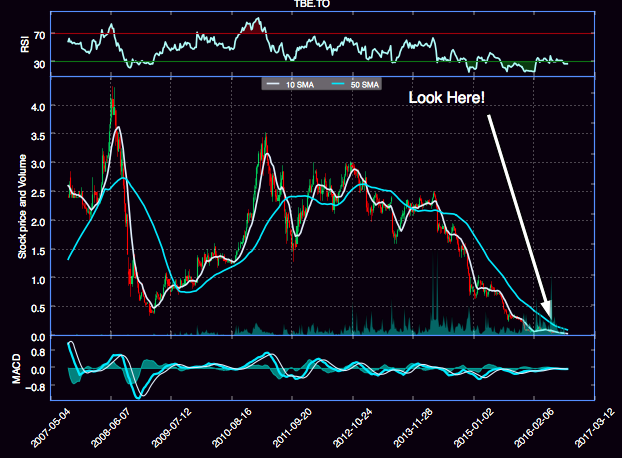
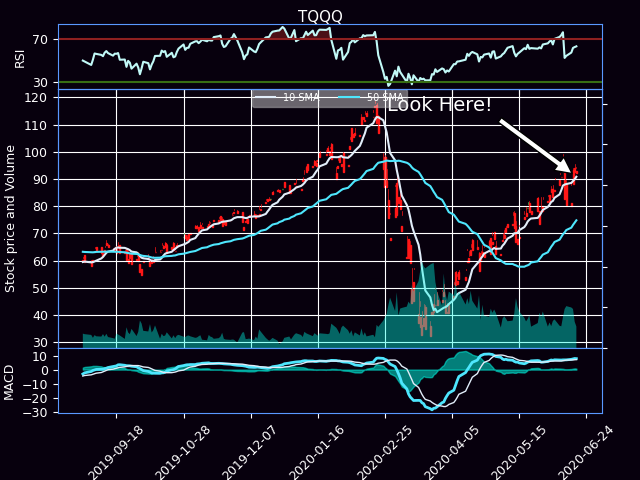
converted python 2 to python 3

Changed region(s): [[0.0, 0.0, 1.0, 1.0], [0.0305, 0.917, 0.0916, 0.9782]]

diff --git a/Stock Screener/rsi.py b/Stock Screener/rsi.py
@@ -1,30 +1,32 @@
-import urllib2
+from urllib.request import urlopen
 import time
 import datetime
 import numpy as np
 import matplotlib.pyplot as plt
 import matplotlib.ticker as mticker
 import matplotlib.dates as mdates
-from matplotlib.finance import candlestick
+from mplfinance.original_flavor import candlestick_ohlc
+import pandas_datareader.data as web
 import matplotlib
 import pylab
 matplotlib.rcParams.update({'font.size': 9})
 
-stocks = ['SU', 'ECA', 'CGP', 'ENB', 'COS', 'CNQ', 'TRP', 'CVE', 'BTE', 'MEG', 'CCO', 'PRE', 'VSN', 'WCP', 'RY', 'TD', 'BMO', 'BNS', 'CM', 'NA', 'SLF', 'EFN', 'MFC', 'CWB', 'GWO', 'TCK.B', 'G', 'ABX', 'DGC', 'AEM', 'POT', 'SLW', 'FM', 'BCE', 'T', 'RCI', 'GIB.A', 'BB', 'ATD.B', 'MG', 'AC', 'CNR', 'TA', 'VRX', 'XIU', 'XEG', 'ZEB', 'XFN', 'SXO', 'XGD', 'CVE', 'CGC', 'OGI', 'TBE.TO', 'AEZS', 'SIE.VN', 'LIX.VN', 'MNKD', 'MT', 'APH', 'OGI']
+stocks = ['SU', 'TSLA', 'GOOG', 'TQQQ']
+
 
 def rsiFunc(prices, n=14):
     deltas = np.diff(prices)
     seed = deltas[:n+1]
-    up = seed[seed>=0].sum()/n
-    down = -seed[seed<0].sum()/n
+    up = seed[seed >= 0].sum()/n
+    down = -seed[seed < 0].sum()/n
     rs = up/down
     rsi = np.zeros_like(prices)
     rsi[:n] = 100. - 100./(1.+rs)
 
     for i in range(n, len(prices)):
-        delta = deltas[i-1] # cause the diff is 1 shorter
+        delta = deltas[i-1]  # cause the diff is 1 shorter
 
-        if delta>0:
+        if delta > 0:
             upval = delta
             downval = 0.
         else:
@@ -39,15 +41,17 @@ def rsiFunc(prices, n=14):
 
     return rsi
 
-def movingaverage(values,window):
+
+def movingaverage(values, window):
     weigths = np.repeat(1.0, window)/window
     smas = np.convolve(values, weigths, 'valid')
-    return smas # as a numpy array
+    return smas  # as a numpy array
+
 
 def ExpMovingAverage(values, window):
     weights = np.exp(np.linspace(-1., 0., window))
     weights /= weights.sum()
-    a =  np.convolve(values, weights, mode='full')[:len(values)]
+    a = np.convolve(values, weights, mode='full')[:len(values)]
     a[:window] = a[window]
     return a
 
@@ -61,41 +65,45 @@ def computeMACD(x, slow=26, fast=12):
     emafast = ExpMovingAverage(x, fast)
     return emaslow, emafast, emafast - emaslow
 
-def graphData(stock,MA1,MA2):
+
+def graphData(stock, MA1, MA2):
     '''
         Use this to dynamically pull a stock:
     '''
     try:
-        print 'Currently Pulling',stock
-        print str(datetime.datetime.fromtimestamp(int(time.time())).strftime('%Y-%m-%d %H:%M:%S'))
-        urlToVisit = 'http://chartapi.finance.yahoo.com/instrument/1.0/'+stock+'/chartdata;type=quote;range=10y/csv'
-        stockFile =[]
+        start = datetime.datetime.now()-datetime.timedelta(days=365)
+        end = datetime.datetime.now()
+        print('Currently Pulling', stock)
+        print(str(datetime.datetime.fromtimestamp(
+            int(time.time())).strftime('%Y-%m-%d %H:%M:%S')))
+
+        data = web.DataReader(stock, 'yahoo', start, end)
+        stockFile = []
         try:
-            sourceCode = urllib2.urlopen(urlToVisit).read()
-            splitSource = sourceCode.split('\n')
-            for eachLine in splitSource:
-                splitLine = eachLine.split(',')
-                if len(splitLine)==6:
-                    if 'values' not in eachLine:
-                        stockFile.append(eachLine)
-        except Exception, e:
-            print str(e), 'failed to organize pulled data.'
-    except Exception,e:
-        print str(e), 'failed to pull pricing data'
+
+            stockFile.append(data)
+        except Exception as e:
+            print(str(e), 'failed to organize pulled data.')
+    except Exception as e:
+        print(str(e), 'failed to pull pricing data')
     try:
-        date, closep, highp, lowp, openp, volume = np.loadtxt(stockFile,delimiter=',', unpack=True,
-                                                              converters={ 0: mdates.strpdate2num('%Y%m%d')})
+        date = [mdates.date2num(d) for d in data.index]
+        closep = data['Close']
+        highp = data['High']
+        lowp = data['Low']
+        openp = data['Open']
+        volume = data['Volume']
 
         rsi = rsiFunc(closep)
 
-        if rsi[-1] < 30:
+        if rsi[-1] > 30:
             x = 0
             y = len(date)
             newAr = []
             while x < y:
-                appendLine = date[x],openp[x],closep[x],highp[x],lowp[x],volume[x]
+                appendLine = date[x], openp[x], closep[x], highp[x], lowp[x], volume[x]
                 newAr.append(appendLine)
-                x+=1
+                x += 1
 
             Av1 = movingaverage(closep, MA1)
             Av2 = movingaverage(closep, MA2)
@@ -104,16 +112,20 @@ def graphData(stock,MA1,MA2):
 
             fig = plt.figure(facecolor='#07000d')
 
-            ax1 = plt.subplot2grid((6,4), (1,0), rowspan=4, colspan=4, axisbg='#07000d')
-            candlestick(ax1, newAr[-SP:], width=.6, colorup='#53c156', colordown='#ff1717')
+            ax1 = plt.subplot2grid(
+                (6, 4), (1, 0), rowspan=4, colspan=4, facecolor='#07000d')
+            candlestick_ohlc(ax1, newAr[-SP:], width=.6,
+                             colorup='#53c156', colordown='#ff1717')
 
             Label1 = str(MA1)+' SMA'
             Label2 = str(MA2)+' SMA'
 
-            ax1.plot(date[-SP:],Av1[-SP:],'#e1edf9',label=Label1, linewidth=1.5)
-            ax1.plot(date[-SP:],Av2[-SP:],'#4ee6fd',label=Label2, linewidth=1.5)
+            ax1.plot(date[-SP:], Av1[-SP:], '#e1edf9',
+                     label=Label1, linewidth=1.5)
+            ax1.plot(date[-SP:], Av2[-SP:], '#4ee6fd',
+                     label=Label2, linewidth=1.5)
 
-            ax1.grid(True, color='w')
+            ax1.grid(False, color='w')
             ax1.xaxis.set_major_locator(mticker.MaxNLocator(10))
             ax1.xaxis.set_major_formatter(mdates.DateFormatter('%Y-%m-%d'))
             ax1.yaxis.label.set_color("w")
@@ -126,16 +138,17 @@ def graphData(stock,MA1,MA2):
             ax1.tick_params(axis='x', colors='w')
             plt.ylabel('Stock price and Volume')
 
-            maLeg = plt.legend(loc=9, ncol=2, prop={'size':7},
-                       fancybox=True, borderaxespad=0.)
+            maLeg = plt.legend(loc=9, ncol=2, prop={'size': 7},
+                               fancybox=True, borderaxespad=0.)
             maLeg.get_frame().set_alpha(0.4)
             textEd = pylab.gca().get_legend().get_texts()
-            pylab.setp(textEd[0:5], color = 'w')
+            pylab.setp(textEd[0:5], color='w')
 
             volumeMin = 0
 
-            ax0 = plt.subplot2grid((6,4), (0,0), sharex=ax1, rowspan=1, colspan=4, axisbg='#07000d')
-            #rsi = rsiFunc(closep)
+            ax0 = plt.subplot2grid(
+                (6, 4), (0, 0), sharex=ax1, rowspan=1, colspan=4, facecolor='#07000d')
+            # rsi = rsiFunc(closep)
             rsiCol = '#c1f9f7'
             posCol = '#386d13'
             negCol = '#8f2020'
@@ -143,9 +156,11 @@ def graphData(stock,MA1,MA2):
             ax0.plot(date[-SP:], rsi[-SP:], rsiCol, linewidth=1.5)
             ax0.axhline(70, color=negCol)
             ax0.axhline(30, color=posCol)
-            ax0.fill_between(date[-SP:], rsi[-SP:], 70, where=(rsi[-SP:]>=70), facecolor=negCol, edgecolor=negCol, alpha=0.5)
-            ax0.fill_between(date[-SP:], rsi[-SP:], 30, where=(rsi[-SP:]<=30), facecolor=posCol, edgecolor=posCol, alpha=0.5)
-            ax0.set_yticks([30,70])
+            ax0.fill_between(date[-SP:], rsi[-SP:], 70, where=(rsi[-SP:]
+                                                               >= 70), facecolor=negCol, edgecolor=negCol, alpha=0.5)
+            ax0.fill_between(date[-SP:], rsi[-SP:], 30, where=(rsi[-SP:]
+                                                               <= 30), facecolor=posCol, edgecolor=posCol, alpha=0.5)
+            ax0.set_yticks([30, 70])
             ax0.yaxis.label.set_color("w")
             ax0.spines['bottom'].set_color("#5998ff")
             ax0.spines['top'].set_color("#5998ff")
@@ -156,10 +171,11 @@ def graphData(stock,MA1,MA2):
             plt.ylabel('RSI')
 
             ax1v = ax1.twinx()
-            ax1v.fill_between(date[-SP:],volumeMin, volume[-SP:], facecolor='#00ffe8', alpha=.4)
+            ax1v.fill_between(date[-SP:], volumeMin,
+                              volume[-SP:], facecolor='#00ffe8', alpha=.4)
             ax1v.axes.yaxis.set_ticklabels([])
             ax1v.grid(False)
-            ###Edit this to 3, so it's a bit larger
+            # Edit this to 3, so it's a bit larger
             ax1v.set_ylim(0, 3*volume.max())
             ax1v.spines['bottom'].set_color("#5998ff")
             ax1v.spines['top'].set_color("#5998ff")
@@ -167,7 +183,8 @@ def graphData(stock,MA1,MA2):
             ax1v.spines['right'].set_color("#5998ff")
             ax1v.tick_params(axis='x', colors='w')
             ax1v.tick_params(axis='y', colors='w')
-            ax2 = plt.subplot2grid((6,4), (5,0), sharex=ax1, rowspan=1, colspan=4, axisbg='#07000d')
+            ax2 = plt.subplot2grid(
+                (6, 4), (5, 0), sharex=ax1, rowspan=1, colspan=4, facecolor='#07000d')
             fillcolor = '#00ffe8'
             nslow = 26
             nfast = 12
@@ -176,7 +193,8 @@ def graphData(stock,MA1,MA2):
             ema9 = ExpMovingAverage(macd, nema)
             ax2.plot(date[-SP:], macd[-SP:], color='#4ee6fd', lw=2)
             ax2.plot(date[-SP:], ema9[-SP:], color='#e1edf9', lw=1)
-            ax2.fill_between(date[-SP:], macd[-SP:]-ema9[-SP:], 0, alpha=0.5, facecolor=fillcolor, edgecolor=fillcolor)
+            ax2.fill_between(date[-SP:], macd[-SP:]-ema9[-SP:], 0,
+                             alpha=0.5, facecolor=fillcolor, edgecolor=fillcolor)
 
             plt.gca().yaxis.set_major_locator(mticker.MaxNLocator(prune='upper'))
             ax2.spines['bottom'].set_color("#5998ff")
@@ -186,27 +204,31 @@ def graphData(stock,MA1,MA2):
             ax2.tick_params(axis='x', colors='w')
             ax2.tick_params(axis='y', colors='w')
             plt.ylabel('MACD', color='w')
-            ax2.yaxis.set_major_locator(mticker.MaxNLocator(nbins=5, prune='upper'))
+            ax2.yaxis.set_major_locator(
+                mticker.MaxNLocator(nbins=5, prune='upper'))
             for label in ax2.xaxis.get_ticklabels():
                 label.set_rotation(45)
 
-            plt.suptitle(stock.upper(),color='w')
+            plt.suptitle(stock.upper(), color='w')
 
             plt.setp(ax0.get_xticklabels(), visible=False)
             plt.setp(ax1.get_xticklabels(), visible=False)
 
-            ax1.annotate('Look Here!',(date[510],Av1[510]),
-                xytext=(0.8, 0.9), textcoords='axes fraction',
-                arrowprops=dict(facecolor='white', shrink=0.05),
-                fontsize=14, color = 'w',
-                horizontalalignment='right', verticalalignment='bottom')
+            ax1.annotate('Look Here!', (date[-1], Av1[-1]),
+                         xytext=(0.8, 0.9), textcoords='axes fraction',
+                         arrowprops=dict(facecolor='white', shrink=0.05),
+                         fontsize=14, color='w',
+                         horizontalalignment='right', verticalalignment='bottom')
 
-            plt.subplots_adjust(left=.09, bottom=.14, right=.94, top=.95, wspace=.20, hspace=0)
+            plt.subplots_adjust(left=.09, bottom=.14,
+                                right=.94, top=.95, wspace=.20, hspace=0)
+
             plt.show()
-            fig.savefig('example.png',facecolor=fig.get_facecolor())
+            fig.savefig('example.png', facecolor=fig.get_facecolor())
 
-    except Exception,e:
-        print 'main loop',str(e)
+    except Exception as e:
+        print('main loop', str(e))
+
 
 for stock in stocks:
-    graphData(stock,10,50)
+    graphData(stock, 10, 50)
